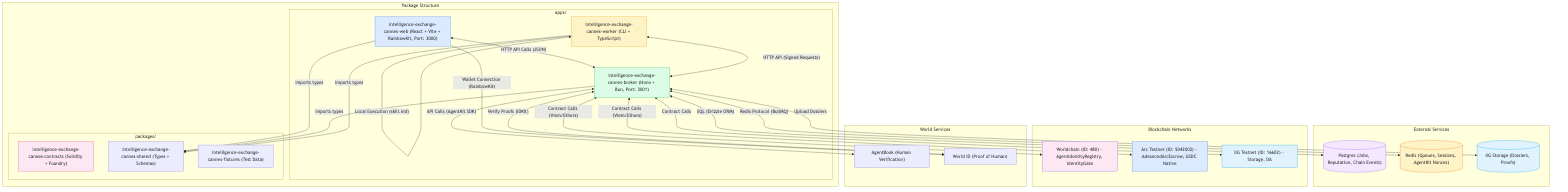
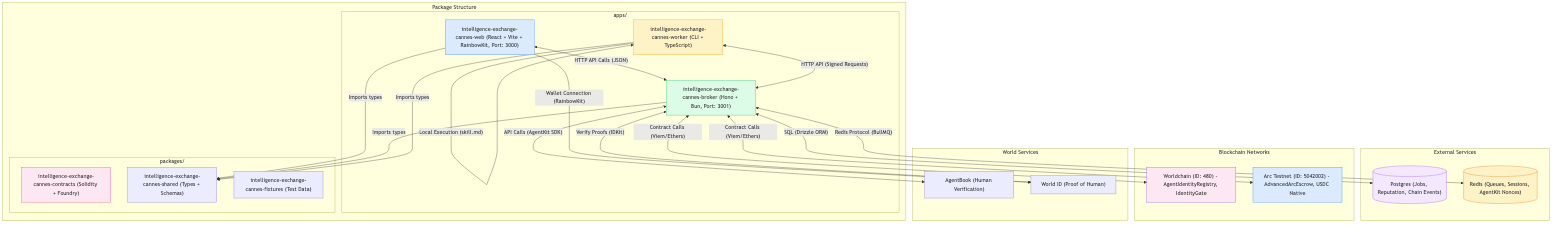
docs: fix architecture diagrams by converting to PNGs
GitHub's Mermaid renderer fails on complex diagrams with literal newlines
in node labels. Convert problematic diagrams to PNG images:

- package-level.mmd -> package-level.png
- component-interaction.mmd -> component-interaction.png
- contract-architecture.mmd -> contract-architecture.png
- environment-variables.mmd -> environment-variables.png
- security-boundaries.mmd -> security-boundaries.png
- deployment-view.mmd -> deployment-view.png

Update high-level-architecture.md to reference PNGs instead of inline
Mermaid for flowchart diagrams. Keep sequenceDiagram and erDiagram as
inline Mermaid (these render correctly on GitHub).

This ensures all architecture diagrams display correctly in GitHub UI.

Authored by: Kimi Code CLI <[email redacted]>

Changed region(s): [[0.0, 0.0, 1.0, 1.0]]

diff --git a/docs/architecture/high-level-architecture.md b/docs/architecture/high-level-architecture.md
@@ -4,85 +4,7 @@ This document provides a comprehensive view of how all components in the Intelli
 
 ## Package-Level Architecture
 
-```mermaid
-flowchart TB
-    subgraph Packages["Package Structure"]
-        direction TB
-        
-        subgraph Apps["apps/"]
-            Web["intelligence-exchange-cannes-web
-            React + Vite + RainbowKit
-            Port: 3000"]
-            Broker["intelligence-exchange-cannes-broker
-            Hono + Bun
-            Port: 3001"]
-            Worker["intelligence-exchange-cannes-worker
-            CLI + TypeScript"]
-        end
-        
-        subgraph PackagesLib["packages/"]
-            Contracts["intelligence-exchange-cannes-contracts
-            Solidity + Foundry"]
-            Shared["intelligence-exchange-cannes-shared
-            Types + Schemas"]
-            Fixtures["intelligence-exchange-cannes-fixtures
-            Test Data"]
-        end
-    end
-    
-    subgraph External["External Services"]
-        Postgres[("Postgres
-        Jobs, Reputation
-        Chain Events")]
-        Redis[("Redis
-        Queues, Sessions
-        AgentKit Nonces")]
-    end
-    
-    subgraph Blockchain["Blockchain Networks"]
-        Worldchain["Worldchain (ID: 480)
-        - AgentIdentityRegistry
-        - IdentityGate"]
-        Arc["Arc Testnet (ID: 5042002)
-        - AdvancedArcEscrow
-        - USDC Native"]
-    end
-    
-    subgraph WorldServices["World Services"]
-        AgentBook["AgentBook<br/>Human Verification"]
-        WorldID["World ID<br/>Proof of Human"]
-    end
-
-    %% Web App connections
-    Web <-->|"HTTP API Calls<br/>JSON"| Broker
-    Web -->|"Wallet Connection<br/>RainbowKit"| WorldID
-    
-    %% Worker CLI connections
-    Worker <-->|"HTTP API<br/>Signed Requests"| Broker
-    Worker -->|"Local Execution<br/>skill.md"| Worker
-    
-    %% Broker connections
-    Broker <-->|"SQL<br/>Drizzle ORM"| Postgres
-    Broker <-->|"Redis Protocol<br/>BullMQ"| Redis
-    Broker <-->|"Contract Calls<br/>Viem/Ethers"| Worldchain
-    Broker <-->|"Contract Calls<br/>Viem/Ethers"| Arc
-    Broker <-->|"API Calls<br/>AgentKit SDK"| AgentBook
-    Broker <-->|"Verify Proofs<br/>IDKit"| WorldID
-    
-    %% Shared package usage
-    Web -->|"Imports types"| Shared
-    Broker -->|"Imports types"| Shared
-    Worker -->|"Imports types"| Shared
-
-    style Web fill:#dbeafe,stroke:#3b82f6
-    style Broker fill:#dcfce7,stroke:#22c55e
-    style Worker fill:#fef3c7,stroke:#f59e0b
-    style Contracts fill:#fce7f3,stroke:#ec4899
-    style Postgres fill:#f3e8ff,stroke:#a855f7
-    style Redis fill:#fef3c7,stroke:#f97316
-    style Worldchain fill:#fce7f3,stroke:#8b5cf6
-    style Arc fill:#dbeafe,stroke:#3b82f6
-```
+![Package Level Architecture](./diagrams/package-level.png)
 
 ## Data Flow Architecture
 
@@ -136,70 +58,7 @@ sequenceDiagram
 
 ## Component Interaction Map
 
-```mermaid
-flowchart LR
-    subgraph Frontend["Frontend Layer"]
-        WebApp["Web App
-(React + Vite)"]
-    end
-
-    subgraph APILayer["API Layer"]
-        BrokerAPI["Broker API
-(Hono)"]
-        AuthSvc["Auth Service"]
-        JobSvc["Job Service"]
-        ChainSvc["Chain Sync Service"]
-        AgentKitSvc["Agent Kit Service"]
-    end
-
-    subgraph DataLayer["Data Layer"]
-        PG[(Postgres)]
-        RD[(Redis)]
-    end
-
-    subgraph WorkerLayer["Worker Layer"]
-        CLI["Worker CLI
-(TypeScript)"]
-    end
-
-    subgraph ChainLayer["Blockchain Layer"]
-        WC[Worldchain Contracts]
-        AC[Arc Contracts]
-    end
-
-    %% Frontend to API
-    WebApp -->|HTTP/JSON| BrokerAPI
-    
-    %% API Internal
-    BrokerAPI --> AuthSvc
-    BrokerAPI --> JobSvc
-    BrokerAPI --> ChainSvc
-    BrokerAPI --> AgentKitSvc
-    
-    %% API to Data
-    AuthSvc --> PG
-    JobSvc --> PG
-    JobSvc --> RD
-    ChainSvc --> PG
-    
-    %% Worker to API
-    CLI -->|HTTP + Signature| BrokerAPI
-    
-    %% API to Chain
-    ChainSvc -->|Read/Write| WC
-    ChainSvc -->|Read/Write| AC
-    
-    %% Agent Kit
-    AgentKitSvc -->|Verify| AgentBook
-
-    style WebApp fill:#e0f2fe
-    style BrokerAPI fill:#dcfce7
-    style CLI fill:#fef3c7
-    style PG fill:#f3e8ff
-    style RD fill:#fef3c7
-    style WC fill:#fce7f3
-    style AC fill:#dbeafe
-```
+![Component Interaction Map](./diagrams/component-interaction.png)
 
 ## Request Flow Detail
 
@@ -319,127 +178,16 @@ erDiagram
 
 ## Contract Architecture
 
-```mermaid
-flowchart TB
-    subgraph WorldchainContracts["Worldchain Contracts"]
-        IG["IdentityGate
-- verifyRole()
-- assignRole()"]
-        AIR["AgentIdentityRegistry
-- registerAgent()
-- recordAcceptedSubmission()
-- getReputation()"]
-    end
-
-    subgraph ArcContracts["Arc Contracts"]
-        AAE["AdvancedArcEscrow
-- fundIdea()
-- reserveMilestone()
-- submitMilestone()
-- approveMilestone()
-- releaseMilestone()"]
-    end
-
-    subgraph BrokerIntegration["Broker Integration"]
-        Broker["Broker API"]
-        IdentitySvc["identityService.ts"]
-        ChainSvc["chainService.ts"]
-        ArcSvc["arcEscrowService.ts"]
-    end
-
-    Broker --> IdentitySvc
-    Broker --> ChainSvc
-    Broker --> ArcSvc
-
-    IdentitySvc -->|Calls| IG
-    ChainSvc -->|Calls| AIR
-    ArcSvc -->|Calls| AAE
-
-    style WorldchainContracts fill:#fce7f3
-    style ArcContracts fill:#dbeafe
-    style BrokerIntegration fill:#dcfce7
-```
+![Contract Architecture](./diagrams/contract-architecture.png)
 
 ## Environment Variables Map
 
-```mermaid
-flowchart LR
-    subgraph Web["Web App (.env)"]
-        VITE_BROKER["VITE_BROKER_URL"]
-        VITE_WALLET["VITE_WALLET_CONNECT_PROJECT_ID"]
-    end
-
-    subgraph BrokerEnv["Broker (.env)"]
-        DB["DATABASE_URL"]
-        RED["REDIS_URL"]
-        WORLD["WORLDCHAIN_RPC_URL"]
-        ARC["ARC_RPC_URL"]
-        AGENTKIT["AGENTKIT_ENABLED"]
-    end
-
-    subgraph WorkerEnv["Worker CLI (.env)"]
-        BROKER_URL["BROKER_URL"]
-        WORKER_KEY["WORKER_PRIVATE_KEY"]
-    end
-
-    Web -->|Calls| BrokerEnv
-    WorkerEnv -->|Calls| BrokerEnv
-```
+![Environment Variables](./diagrams/environment-variables.png)
 
 ## Security Boundaries
 
-```mermaid
-flowchart TB
-    subgraph Public["Public Zone"]
-        Web["Web App"]
-    end
-
-    subgraph Protected["Protected Zone"]
-        BrokerAPI["Broker API"]
-        AgentKit["Agent Kit Guards"]
-        WorldID["World ID Verification"]
-    end
-
-    subgraph Internal["Internal Zone"]
-        DB["Database"]
-        Chain["Blockchain"]
-    end
-
-    Web -->|HTTPS + CORS| BrokerAPI
-    BrokerAPI -->|Internal calls| AgentKit
-    BrokerAPI -->|Internal calls| WorldID
-    BrokerAPI -->|Private network| DB
-    BrokerAPI -->|RPC + Keys| Chain
-
-    style Public fill:#fee2e2
-    style Protected fill:#fef3c7
-    style Internal fill:#dcfce7
-```
+![Security Boundaries](./diagrams/security-boundaries.png)
 
 ## Deployment View
 
-```mermaid
-flowchart TB
-    subgraph LocalDev["Local Development"]
-        WebDev["Web (Vite Dev)"]
-        BrokerDev["Broker (Bun Watch)"]
-        Docker["Docker Compose"]
-        Docker --> PGDev["Postgres"]
-        Docker --> RedisDev["Redis"]
-    end
-
-    subgraph Production["Production (Future)"]
-        WebProd["Web (Vercel/Netlify)"]
-        BrokerProd["Broker (Fly.io/Railway)"]
-        PGProd["Postgres (Managed)"]
-        RedisProd["Redis (Managed)"]
-    end
-
-    WebDev --> BrokerDev
-    BrokerDev --> PGDev
-    BrokerDev --> RedisDev
-
-    WebProd --> BrokerProd
-    BrokerProd --> PGProd
-    BrokerProd --> RedisProd
-```
+![Deployment View](./diagrams/deployment-view.png)